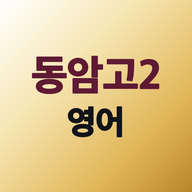
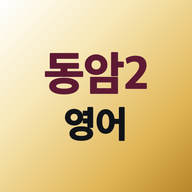
아이콘·홈 화면 이름 줄임(학교 2자+학년)

Changed region(s): [[0.1562, 0.25, 0.8438, 0.5], [0.3125, 0.5312, 0.6562, 0.75]]

diff --git a/index.html b/index.html
@@ -122,7 +122,7 @@ body:not(.nobrand) #submit::before{content:"";display:inline-block;width:1.35em;
 <link rel="apple-touch-icon" href="/apple-touch-icon.png?v=e1">
 <meta name="apple-mobile-web-app-capable" content="yes">
 <meta name="mobile-web-app-capable" content="yes">
-<meta name="apple-mobile-web-app-title" content="동암고2">
+<meta name="apple-mobile-web-app-title" content="동암2">
 <meta name="apple-mobile-web-app-status-bar-style" content="default">
 <meta name="theme-color" content="#f5f5f2" media="(prefers-color-scheme: light)">
 <meta name="theme-color" content="#141416" media="(prefers-color-scheme: dark)">
